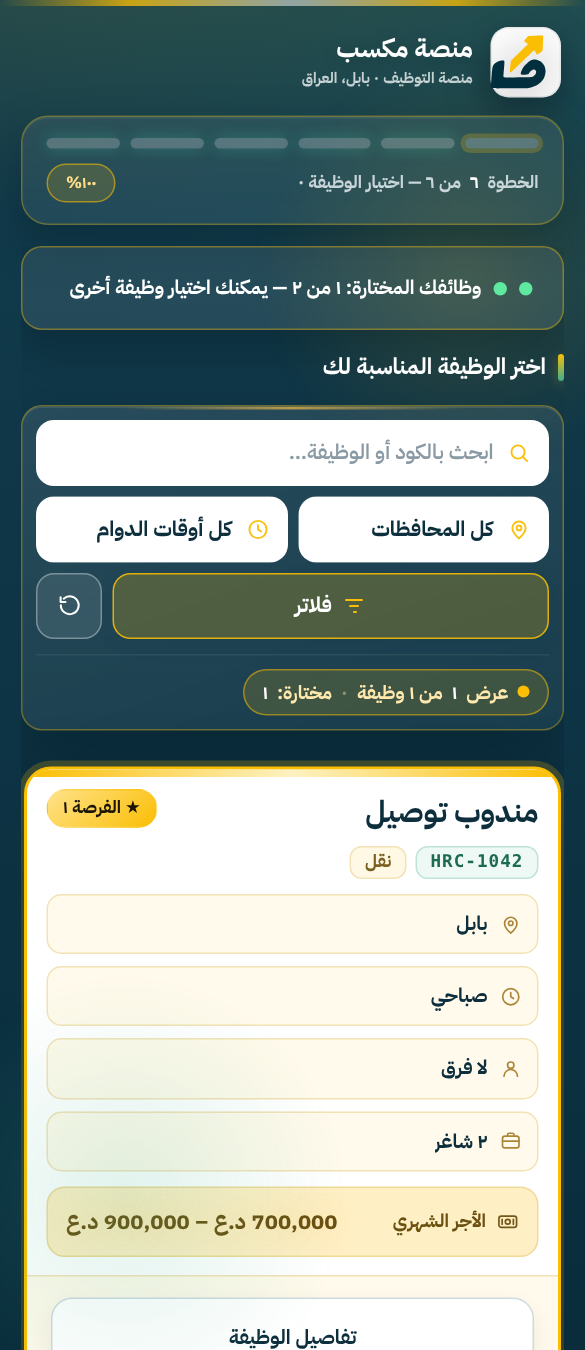
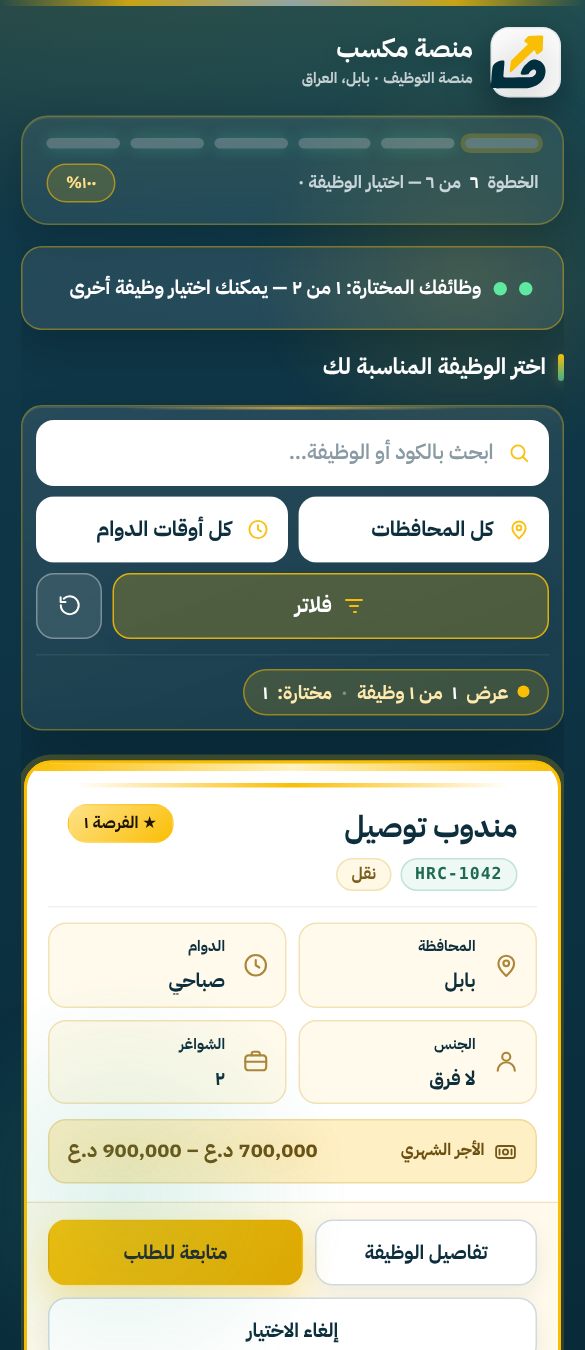
كارت الوظيفة: «اختيار الوظيفة» بدل «تعيين للفرصة»، ترتيب وأيقونات وتصغير التفاصيل، وبورتريه (زوم للمختارة وتغبيش البقية)

Changed region(s): [[0.0308, 0.56, 0.9538, 1.0]]

diff --git a/apply.html b/apply.html
@@ -3214,6 +3214,149 @@ body{
   body[data-step="7"] .rv-jobs .rv-chip svg{color:#FABE04!important}
   body[data-step="7"] .rv-jobs .rv-empty{color:#ffe9ad!important}
 }
+/* ═══════════════════════════════════════════════════════════════════════════
+   2026-10-27 · كارت الوظيفة: مرتب · أصغر · أيقونات · و«البورتريه»
+   ─ عند اختيار وظيفة: المختارة تبرز (زوم إن) والبقية تُغبَّش وتُعتَّم
+   ═══════════════════════════════════════════════════════════════════════════ */
+@media screen{
+
+  /* ── 1) شبكة الكروت ─────────────────────────────────────────────────── */
+  body[data-step="6"] #jobs-list{
+    display:grid!important;grid-template-columns:repeat(auto-fill,minmax(min(100%,300px),1fr))!important;
+    gap:16px!important;align-items:start!important;padding:6px 2px 2px!important;
+    position:relative;
+  }
+
+  /* ── 2) الكارت نفسه: حشوة أصغر ومسافات محسوبة ─────────────────────────── */
+  body[data-step="6"] #jobs-list .job-card{
+    display:flex!important;flex-direction:column;gap:0;
+    padding:14px 14px 0!important;border-radius:18px!important;
+    transition:transform .34s cubic-bezier(.2,1,.3,1),box-shadow .34s ease,
+               opacity .3s ease,filter .3s ease,border-color .3s ease!important;
+    transform-origin:center;
+    will-change:transform,filter;
+  }
+  /* رأس الكارت: العنوان والوسوم */
+  body[data-step="6"] #jobs-list .job-head{
+    align-items:flex-start!important;gap:8px!important;padding-bottom:10px;
+    border-bottom:1px solid #eef2f4;
+  }
+  body[data-step="6"] #jobs-list .job-head .title{
+    font-size:16.5px!important;line-height:1.5!important;font-weight:900!important;
+    color:#0d2f3d!important;margin:0!important;
+  }
+  body[data-step="6"] #jobs-list .job-tags{gap:6px!important;margin-top:6px!important}
+  body[data-step="6"] #jobs-list .job-tags .job-code,
+  body[data-step="6"] #jobs-list .job-tags .job-cat{
+    font-size:11px!important;padding:3px 9px!important;border-radius:999px!important;font-weight:800!important;
+  }
+  body[data-step="6"] #jobs-list .job-state{
+    font-size:11px!important;padding:4px 10px!important;border-radius:999px!important;white-space:nowrap;
+  }
+
+  /* شبكة المعلومات: بطاقة صغيرة لكل معلومة (أيقونة · تسمية · قيمة) */
+  body[data-step="6"] #jobs-list .job-body{padding:10px 0 0}
+  body[data-step="6"] #jobs-list .job-meta{
+    display:grid!important;grid-template-columns:1fr 1fr!important;gap:8px!important;
+  }
+  body[data-step="6"] #jobs-list .jm{
+    display:grid!important;grid-template-columns:22px 1fr;grid-template-rows:auto auto;
+    column-gap:8px;align-items:center;
+    padding:8px 10px!important;border-radius:12px!important;
+    background:#f7f9fa!important;border:1px solid #e9eff1!important;
+    min-height:0!important;
+  }
+  body[data-step="6"] #jobs-list .jm svg{
+    grid-row:1 / span 2;width:19px;height:19px;color:#a8802f!important;align-self:center;
+  }
+  body[data-step="6"] #jobs-list .jm .jm-k{
+    font-size:10px!important;font-weight:800!important;color:#8b9aa3!important;line-height:1.3;
+  }
+  body[data-step="6"] #jobs-list .jm .jm-v{
+    font-size:13px!important;font-weight:900!important;color:#0d2f3d!important;line-height:1.35;
+    white-space:nowrap;overflow:hidden;text-overflow:ellipsis;
+  }
+
+  /* سطر الأجر: واضح وصغير */
+  body[data-step="6"] #jobs-list .job-pay{
+    display:flex!important;align-items:center;justify-content:space-between;gap:8px;
+    margin-top:10px!important;padding:9px 12px!important;border-radius:12px!important;
+    background:#fffaeb!important;border:1px solid #f2e2b6!important;
+  }
+  body[data-step="6"] #jobs-list .job-pay-k{
+    display:inline-flex!important;align-items:center;gap:6px;
+    font-size:11px!important;font-weight:800!important;color:#8a6a10!important;
+  }
+  body[data-step="6"] #jobs-list .job-pay-k svg{width:16px;height:16px}
+  body[data-step="6"] #jobs-list .job-pay-v{
+    font-size:13.5px!important;font-weight:900!important;color:#6b5010!important;white-space:nowrap;
+  }
+
+  /* أزرار الكارت: صفّ واحد مرتّب */
+  body[data-step="6"] #jobs-list .job-actions{
+    display:flex!important;flex-wrap:wrap!important;gap:8px!important;margin:12px -14px 0!important;
+    padding:11px 14px!important;background:#fafbfc!important;border-top:1px solid #edf1f3!important;
+    border-radius:0 0 18px 18px;
+  }
+  /* «تفاصيل الوظيفة» صغيرة · أزرار الاختيار تأخذ المساحة */
+  body[data-step="6"] #jobs-list .job-actions .job-details-btn{flex:0 1 auto!important;min-width:104px!important}
+  body[data-step="6"] #jobs-list .job-actions .btn{
+    flex:1 1 128px!important;min-width:0!important;min-height:44px!important;
+    font-size:13px!important;font-weight:900!important;padding:9px 10px!important;border-radius:12px!important;
+    white-space:nowrap!important;
+  }
+  body[data-step="6"] #jobs-list .job-actions .btn-success{flex-basis:150px!important}
+  body[data-step="6"] #jobs-list .job-details{
+    font-size:12.5px!important;line-height:1.9;color:#546873!important;
+    background:#f8fafb!important;border-radius:12px;padding:10px 12px;margin-top:10px;
+  }
+
+  /* ── 3) «البورتريه»: المختارة تبرز والبقية تُغبَّش ───────────────────── */
+  #jobs-list.has-focus{gap:16px!important}
+  #jobs-list.has-focus .job-card:not(.selected){
+    filter:blur(2.6px) saturate(.55) brightness(.97)!important;
+    opacity:.5!important;
+    transform:scale(.955)!important;
+  }
+  #jobs-list.has-focus .job-card.selected{
+    z-index:6;
+    transform:translateY(-6px) scale(1.03)!important;
+    filter:none!important;opacity:1!important;
+    box-shadow:0 26px 60px rgba(2,20,28,.3),0 0 0 3px rgba(250,190,4,.35)!important;
+  }
+  /* طبقة تعتيم ناعمة خلف المختارة (لا تمنع النقر على البطاقة نفسها) */
+  #jobs-list.has-focus::before{
+    content:'';position:absolute;inset:-6px;z-index:0;pointer-events:none;border-radius:22px;
+    background:radial-gradient(70% 55% at 50% 30%,rgba(2,20,28,0) 42%,rgba(2,20,28,.22));
+  }
+  /* شارة «مختارة» داخل الكارت: واضحة ومرتبة */
+  #jobs-list .job-card.selected{
+    outline:2px solid #FABE04;outline-offset:-2px;
+  }
+  #jobs-list .job-card.selected .job-head::after{
+    content:'';position:absolute;inset-block-start:-1px;inset-inline:18px;height:3px;border-radius:0 0 3px 3px;
+    background:linear-gradient(90deg,transparent,#FABE04,transparent);
+  }
+
+  /* حركات دخول الكروت واحدة بعد الأخرى */
+  @media(prefers-reduced-motion:no-preference){
+    #jobs-list .job-card{animation:jobCardIn .45s cubic-bezier(.2,1,.3,1) both}
+    #jobs-list .job-card:nth-child(2){animation-delay:.05s}
+    #jobs-list .job-card:nth-child(3){animation-delay:.1s}
+    #jobs-list .job-card:nth-child(n+4){animation-delay:.15s}
+  }
+  @keyframes jobCardIn{from{opacity:0;transform:translateY(10px)}to{opacity:1;transform:none}}
+  @media(prefers-reduced-motion:reduce){
+    #jobs-list .job-card,#jobs-list.has-focus .job-card:not(.selected){transition:none!important;animation:none!important}
+    #jobs-list.has-focus .job-card:not(.selected){filter:none!important;opacity:.75!important;transform:none!important}
+  }
+
+  /* على الجوال: عمود واحد وكروت أصغر */
+  @media(max-width:640px){
+    body[data-step="6"] #jobs-list{grid-template-columns:1fr!important;gap:14px!important}
+    body[data-step="6"] #jobs-list .job-meta{grid-template-columns:1fr 1fr!important}
+  }
+}
 </style>
 </head>
 <body>
@@ -4300,11 +4443,12 @@ var G={
       var stateCls = done ? 'is-done' : (picked ? 'is-picked' : 'is-open');
       var stateTxt = done ? '✓ تم التقديم' : (picked ? '★ الفرصة ' + ar(G.chanceNumber(slotNo)) : 'متاحة');
       var place = jobProvince(j.governorate) || '';
+      /* كارت الوظيفة: ترتيب واضح — عنوان · وسمان · شبكة أيقونات · أجر · أزرار */
       h+='<article class="job-card'+(picked?' selected':'')+(done?' is-done':'')+'" data-job="'+esc(j.code)+'"'
         +(done?'':' onclick="G.pickJob(\''+esc(j.code)+'\')"')+'>'
         +'<span class="pick-mark" aria-hidden="true">'+(picked?ar(G.chanceNumber(slotNo)):'✓')+'</span>'
 
-        /* ── رأس البطاقة: صورة + عنوان + كود + حالة ── */
+        /* ── رأس الكارت ── */
         +'<header class="job-head">'
           +(j.imageUrl
             ? '<span class="job-thumb" style="--img:url(&quot;'+esc(j.imageUrl)+'&quot;)"><img src="'+esc(j.imageUrl)+'" alt="" loading="lazy" decoding="async" referrerpolicy="no-referrer"'
@@ -4320,16 +4464,16 @@ var G={
           +'<span class="job-state '+stateCls+'">'+stateTxt+'</span>'
         +'</header>'
 
-        /* ── البيانات في شبكة منظّمة ── */
+        /* ── شبكة المعلومات: أيقونة + تسمية صغيرة + قيمة (أصغر وأرتب) ── */
         +'<div class="job-body">'
           +'<div class="job-meta">'
-            +'<div class="jm">'+G.jobIcon('pin')+'<span class="jm-v">'+esc(place||'—')+'</span></div>'
-            +'<div class="jm">'+G.jobIcon('clock')+'<span class="jm-v">'+esc(j.shift)+'</span></div>'
-            +'<div class="jm">'+G.jobIcon('user')+'<span class="jm-v">'+esc(j.gender)+'</span></div>'
-            +'<div class="jm">'+G.jobIcon('seat')+'<span class="jm-v">'+ar(j.vacancies||1)+' شاغر</span></div>'
+            +'<div class="jm">'+G.jobIcon('pin')+'<span class="jm-k">المحافظة</span><span class="jm-v">'+esc(place||'—')+'</span></div>'
+            +'<div class="jm">'+G.jobIcon('clock')+'<span class="jm-k">الدوام</span><span class="jm-v">'+esc(j.shift)+'</span></div>'
+            +'<div class="jm">'+G.jobIcon('user')+'<span class="jm-k">الجنس</span><span class="jm-v">'+esc(j.gender)+'</span></div>'
+            +'<div class="jm">'+G.jobIcon('seat')+'<span class="jm-k">الشواغر</span><span class="jm-v">'+ar(j.vacancies||1)+'</span></div>'
           +'</div>'
           +'<div class="job-pay">'
-            +'<span class="job-pay-k">'+G.jobIcon('pay')+' الأجر الشهري</span>'
+            +'<span class="job-pay-k">'+G.jobIcon('pay')+'الأجر الشهري</span>'
             +'<span class="job-pay-v">'+esc(sal)+'</span>'
           +'</div>'
         +'</div>'
@@ -4344,13 +4488,14 @@ var G={
         /* ── أزرار الإجراء ── */
         +'<footer class="job-actions">'
           +'<button type="button" class="btn btn-outline btn-sm job-details-btn" onclick="event.stopPropagation();G.toggleDetails(\''+esc(j.code)+'\')">تفاصيل الوظيفة</button>';
-      if(done){h+='<button type="button" class="btn btn-outline btn-sm" disabled>✓ تم التقديم</button>';}
+      if(done){h+='<button type="button" class="btn btn-outline btn-sm" disabled>تم التقديم</button>';}
       else if(chancesLeft<=0){h+='<button type="button" class="btn btn-outline btn-sm" disabled>انتهت الفرص</button>';}
       else if(picked){
-        h+='<button type="button" class="btn btn-success btn-sm" onclick="event.stopPropagation();G.next()">✓ مختارة (فرصة '+ar(G.chanceNumber(slotNo))+') — متابعة</button>';
-        h+='<button type="button" class="btn btn-outline btn-sm" onclick="event.stopPropagation();G.pickJob(\''+esc(j.code)+'\')">إلغاء</button>';
+        /* المختارة: زر واحد واضح «متابعة» + إلغاء الاختيار (لا نُكرّر رقم الفرصة هنا) */
+        h+='<button type="button" class="btn btn-success btn-sm" onclick="event.stopPropagation();G.next()">متابعة للطلب</button>';
+        h+='<button type="button" class="btn btn-outline btn-sm" onclick="event.stopPropagation();G.pickJob(\''+esc(j.code)+'\')">إلغاء الاختيار</button>';
       }
-      else{h+='<button type="button" class="btn btn-primary btn-sm" onclick="event.stopPropagation();G.pickJob(\''+esc(j.code)+'\')">تعيين للفرصة '+ar(Math.min(pickedJobs.length+1,2))+'</button>';}
+      else{h+='<button type="button" class="btn btn-primary btn-sm" onclick="event.stopPropagation();G.pickJob(\''+esc(j.code)+'\')">اختيار الوظيفة</button>';}
       h+='</footer>'
       +'</article>';
     });

diff --git a/sw.js b/sw.js
@@ -1,4 +1,4 @@
-// Service Worker للعمل أوفلاين — hrc-cache-v76
+// Service Worker للعمل أوفلاين — hrc-cache-v77
 // ---------------------------------------------------------------------------
 // سياسة التخزين منذ v4:
 //   • HTML و JS  → network-first: الشبكة أولاً (الزائر يرى آخر نسخة)، والكاش
@@ -28,7 +28,7 @@
    إن كان مطابقاً. إبقاء الرقم ثابتاً يُبقي الزوار القدامى على نسخة قديمة
    من index.html مهما أعدت النشر (ظهر فعلاً: زر دخول محذوف بقي على حاسبة
    زارت الموقع قبل الحذف، بينما اختفى على هاتف لم يزره من قبل). */
-const CACHE_NAME = 'hrc-cache-v76';
+const CACHE_NAME = 'hrc-cache-v77';
 const urlsToCache = [
   '/',
   '/index.html',

diff --git a/docs/public-app-identity-2026-10-25.md b/docs/public-app-identity-2026-10-25.md
@@ -735,3 +735,43 @@
 **لقطات:** `docs/preview/shots/d2-addr.png` · `d3-dob.png` · `d4-phone-partial.png` ·
 `d6-jobs.png` · `d6-selected.png` · `d7-review.png` · `d7-review-end.png` ·
 `f1-jobs-d.png` · `f2-addr-d.png`.
+
+---
+
+## 24) كارت الوظيفة: ترتيب وأيقونات وبورتريه (2026-10-27)
+
+ملاحظات المالك: «بدل تعيين الفرصة خليها اختيار الوظيفة» · «الوظيفة المختارة
+تسوي زوم وتبرز والبقية تتغبّش مثل البورتريه» · «خلي المختارة تتحدد بشكل مرتب
+وجذاب» · «رتّب كارت الوظيفة وصغّر التفاصيل وحط أيقونات».
+
+### ١) النصوص
+- زر التعيين: **«تعيين للفرصة ١»** ← **«اختيار الوظيفة»**.
+- زر المختارة: **«متابعة للطلب»** + **«إلغاء الاختيار»** (بلا تكرار رقم الفرصة،
+  لأن الرقم صار واضحاً في شارة الحالة «★ الفرصة ١» داخل الكارت).
+
+### ٢) ترتيب الكارت (أصغر وأنظف)
+| الجزء | قبل | بعد |
+|---|---|---|
+| الحشوة | 24px | **14px** |
+| العنوان | 21px | **16.5px** |
+| المعلومات | ٤ صفوف طويلة (330px عرضاً) | **شبكة ٢×٢** من بطاقات صغيرة: أيقونة + تسمية ١٠px + قيمة ١٣px |
+| الأجر | سطر عريض | سطر واحد مرتّب: تسمية صغيرة يساراً وقيمة واضحة يميناً |
+| الأزرار | عمود طويل | **صفّ واحد**: «تفاصيل الوظيفة» صغير + زر الاختيار يأخذ المساحة |
+| الرأس | بلا فصل | خط فاصل رقيق تحت العنوان والوسوم |
+
+### ٣) البورتريه (زوم إن · الباقي يتغبّش)
+- عند اختيار وظيفة: `#jobs-list.has-focus` → المختارة **تكبر 1.03 وترتفع 6px**
+  بهالة ذهبية، وكل البقية **blur 2.6px + تعتيم 50٪ + تصغير 0.955**، مع طبقة
+  تعتيم ناعمة خلف المشهد — بلا منع النقر على الأزرار (الأزرار داخل المختارة).
+- المختارة أوضح بصرياً: حدّ ذهبي خارجي + شريط ذهبي أعلى الكارت + شارة الفرصة.
+- كل الحركات تحترم `prefers-reduced-motion` (يبقى التعتيم الخفيف فقط).
+
+### ٤) حركة
+- كروت الوظائف تدخل واحدة بعد الأخرى (`jobCardIn` بفاصل 50ms).
+
+**الاختبارات:** `schema` **254 ناجح / 0 فاشل** (قسم ٣٣ بسبعة فحوص للكارت
+والبورتريه والنصوص) · `apply-flow` 113 · `card-identity` 25 · `smoke` 138 ·
+`audit` 151 · `e2e` 146 · `perf` 37 · `test:all` أخضر. الكاش `hrc-cache-v77`.
+
+**لقطات:** `docs/preview/shots/d6-jobs.png` · `d6-selected.png` ·
+`g1-portrait-before.png` · `g2-portrait-after.png` · `f1-jobs-d.png`.
